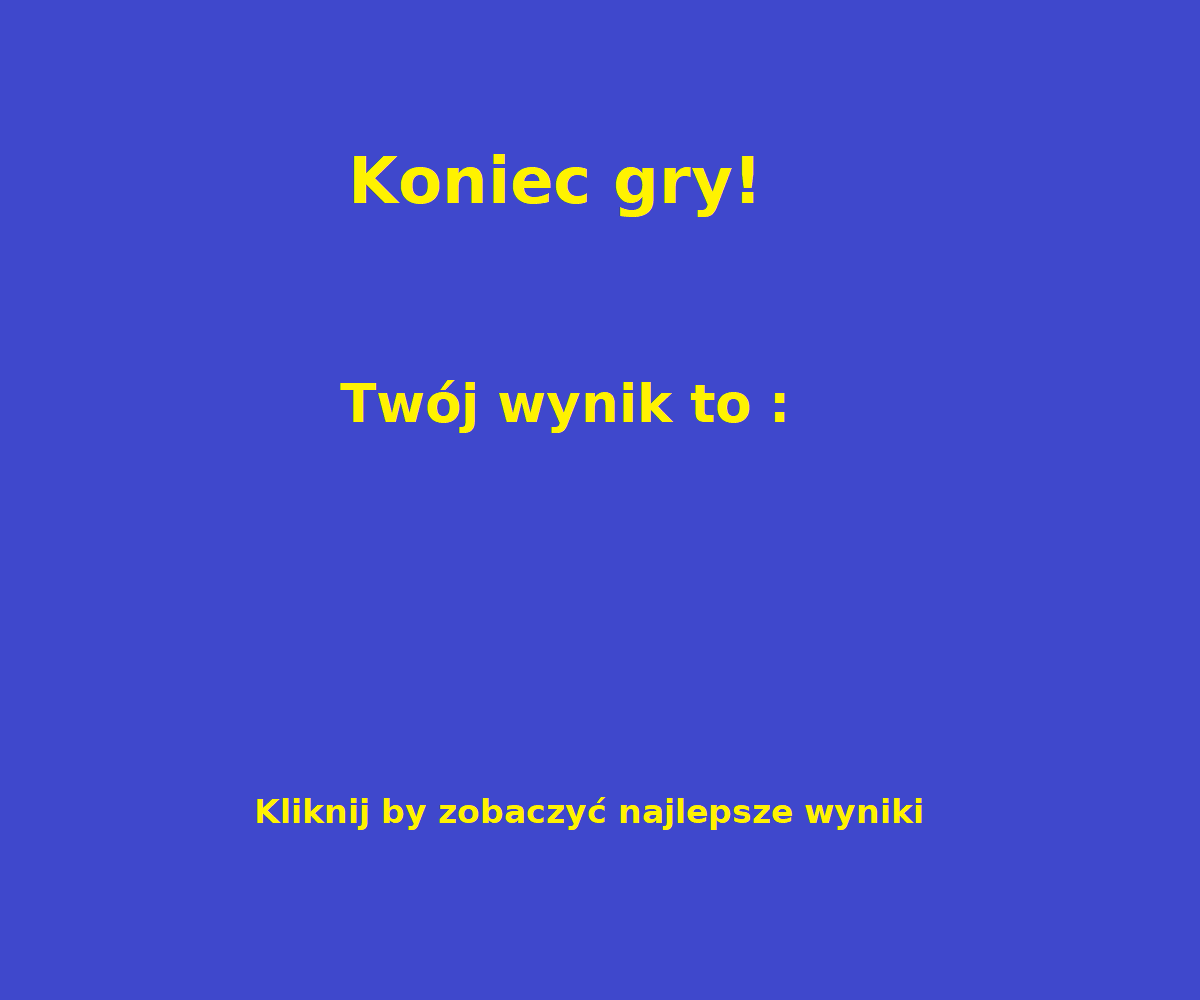
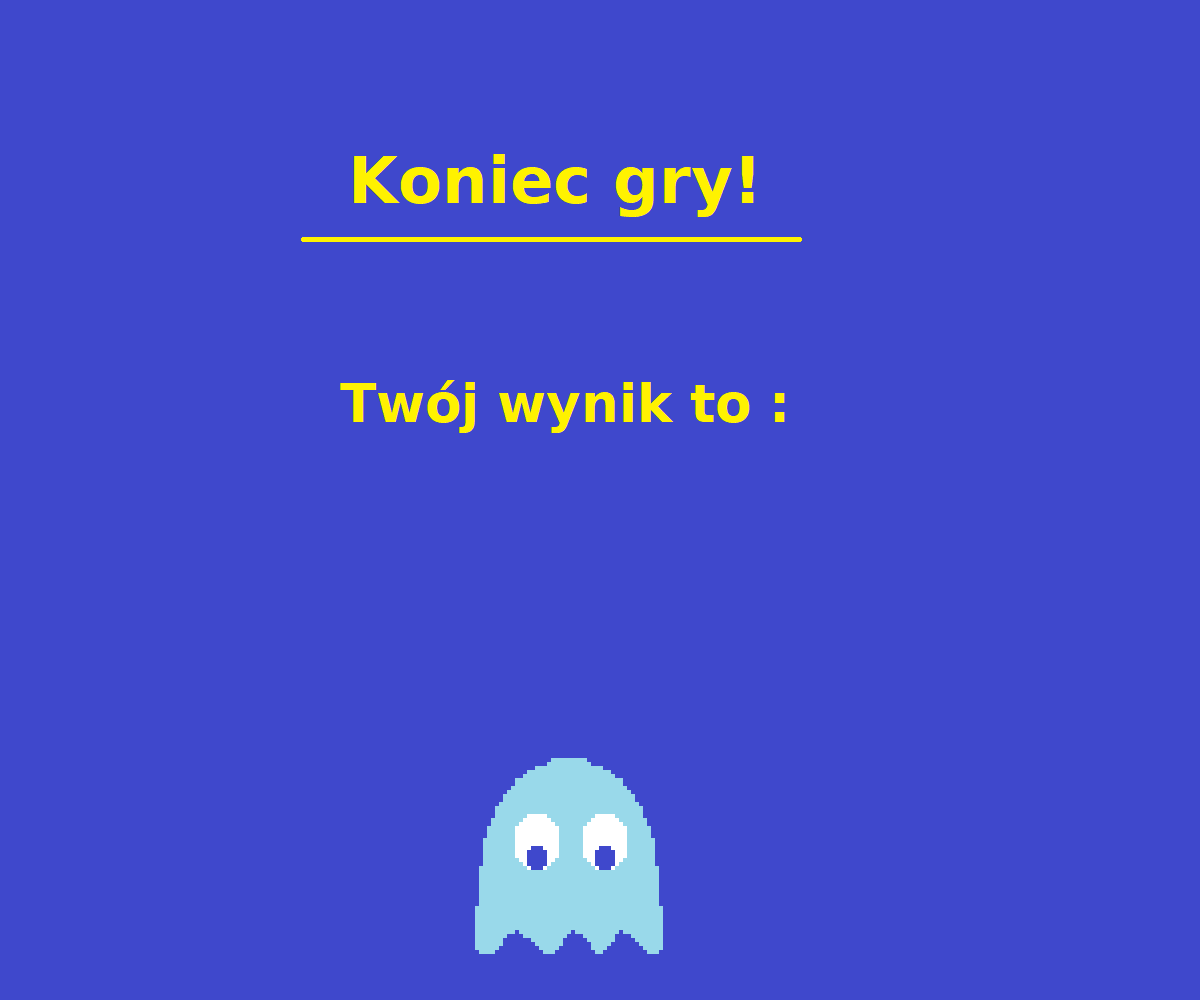
Version 0.81
- Fixed Inky gif having transparent eyes
- Show Highscores button from menu now fully functional
- Fixed highscores; now they correctly move other scores down the list
- Added indicator in form of transparent ghost images on the map if they are about to spawn/respawn
- Added transparent images to support feature mentioned above
- AI basic pathfinding now fully fixed (that took waaay to long)
- Modified win/lose screens to improve the looks

Changed region(s): [[0.2158, 0.744, 0.7708, 0.961], [0.2467, 0.217, 0.6783, 0.248]]

diff --git a/src/Board.java b/src/Board.java
@@ -11,6 +11,8 @@ public class Board extends JPanel implements ActionListener {
     public static final int MAPSHIFT = 50;
     public static final int DELAY = 10;                                         // Zmienna MAPSHIFT określa przesunięcie poszczególnych elementów tablicy 2d na piksele ( wielkosc siatki)
     public static final int GHOST_KILLED_POINTS = 100;
+    public final static int TRANSPARENT_TIMER = 1000;
+    public static final int SHOW_SCORES = -100 ;
 
     private Timer timer;
     private Pacman pacman;
@@ -26,21 +28,33 @@ public class Board extends JPanel implements ActionListener {
     private Image scoreScreen;
     private int pointTimer;
     private int endTimer;
-    private boolean end;
-    private boolean lost;
+    private boolean endFlag;
+    private boolean lostFlag;
     private boolean scoreFlag;
     private Score newScore;
-
+    private boolean onlyScoreFlag;
 
 
     public Board(int lvl) {
-        scoreFlag = false;
-        endTimer = 300;
-        lost = false;
-        end = false;
-        pacmanLifes = 3;
-        points = 0;
-        initBoard(lvl);
+        if(lvl != SHOW_SCORES) {
+            onlyScoreFlag = false;
+            scoreFlag = false;
+            endTimer = 300;
+            lostFlag = false;
+            endFlag = false;
+            pacmanLifes = 3;
+            points = 0;
+            initBoard(lvl);
+        }else{
+            addKeyListener(new TAdapter());
+            this.setFocusable(true);
+            onlyScoreFlag = true;
+            endFlag = true;
+            scoreFlag = true;
+            newScore = new Score();
+            repaint();
+        }
+
     }
 
     private void initBoard(int gameLevel) {
@@ -110,7 +124,7 @@ public class Board extends JPanel implements ActionListener {
         g2d.setPaint(Color.yellow);
         g2d.setFont(new Font ("Arial",Font.PLAIN ,20));
 
-        if(end == false) {
+        if(endFlag == false) {
             g2d.drawImage(pacman.getImage(), pacman.getXPosition(),
                     pacman.getYPosition(), this);
 
@@ -145,11 +159,16 @@ public class Board extends JPanel implements ActionListener {
                 }
             }
             for (Ghost ghost : ghostList) {
-                g2d.drawImage(ghost.getImage(), ghost.getXPosition(),
-                        ghost.getYPosition(), this);
+                if(ghost.getIsAlive()== true) {
+                    g2d.drawImage(ghost.getImage(), ghost.getXPosition(),
+                            ghost.getYPosition(), this);
+                }else if (ghost.getIsAlive() == false && ghost.getTimer() < TRANSPARENT_TIMER ){
+                    g2d.drawImage(ghost.getImage(), ghost.getStartingX(),
+                            ghost.getStartingY(), this);
+                }
             }
         }else if (scoreFlag == false){
-            if (isLost()== false) {
+            if (isLostFlag()== false) {
                 loadWinScreen();
                 g2d.drawImage(winScreen, 0, 0, this);
             }else{
@@ -191,14 +210,14 @@ public class Board extends JPanel implements ActionListener {
     }
 
     private boolean didWeLose() {
-        if(end == true) {
+        if(endFlag == true) {
             return true;
         }
 
         if((pacmanLifes < 0) ){
             addTimerPoints();
-            end = true;
-            setLost(true);
+            endFlag = true;
+            setLostFlag(true);
             repaint();
             return true;
         }
@@ -212,9 +231,11 @@ public class Board extends JPanel implements ActionListener {
             increaseLife();
             addTimerPoints();
             if(LevelMap.isNextLevelThere(level.getCurrentLevel()+1)) {
+                timer.stop();
                 initBoard(level.getCurrentLevel() + 1);
+                this.removeAll();
             }else{
-                end = true;
+                endFlag = true;
             }
             repaint();
             return true;
@@ -316,12 +337,12 @@ public class Board extends JPanel implements ActionListener {
             this.points += points;
         }
 
-    public void setLost(boolean lost) {
-        this.lost = lost;
+    public void setLostFlag(boolean lostFlag) {
+        this.lostFlag = lostFlag;
     }
 
-    public boolean isLost() {
-        return lost;
+    public boolean isLostFlag() {
+        return lostFlag;
     }
 
 

diff --git a/src/Score.java b/src/Score.java
@@ -14,6 +14,10 @@ import java.util.Scanner;
             int place = checkScore(score);
             if(place != -1 ){
                 setName();
+                for(int i = 8; i >= place; i--) {
+                        scores[i+1][0] = scores[i][0];
+                        scores[i+1][1] = scores[i][1];
+                }
                 scores[place][0] = name;
                 scores[place][1] = Integer.toString(score);
                 copyScoresToFile();
@@ -94,7 +98,9 @@ import java.util.Scanner;
 
         public  void setName(){
             name = JOptionPane.showInputDialog(null, "Gratulacje, znalazłeś się w pierwszej dziesiątce! Wpisz swoje imie ", "Nowy rekord", JOptionPane.QUESTION_MESSAGE);
-
+            while(name.length() > 20 || name.contains(" ") ){
+                name = JOptionPane.showInputDialog(null, "Imie nie może zawierać spacji ani mieć więcej niż 20 znaków!", "Nowy rekord", JOptionPane.QUESTION_MESSAGE);
+            }
         }
     }
 

diff --git a/src/Ghost.java b/src/Ghost.java
@@ -63,6 +63,26 @@ public class Ghost extends Pacman{
         ImageIcon oo = new ImageIcon("Blinkey\\BlinkeyLeftGif.gif");
         if(isFrigtened()) {
             oo = new ImageIcon("ScaredGif.gif");
+        }else if(getTimer() < Board.TRANSPARENT_TIMER){
+            switch (ghostType) {
+                case RED: {
+                    oo = new ImageIcon("Blinkey\\BlinkeyLeftTransparent.png");
+                    break;
+                }
+                case BLUE: {
+                    oo = new ImageIcon("Inky\\InkyLeftTransparent.png");
+                    break;
+                }
+                case ORANG: {
+                    oo = new ImageIcon("Clyde\\ClydeLeftTransparent.png");
+                    break;
+                }
+                case PINK: {
+                    oo = new ImageIcon("Pinky\\PinkyLeftTransparent.png");
+                    break;
+                }
+            }
+
         }
         else{
             switch (ghostType) {

diff --git a/src/Game.java b/src/Game.java
@@ -61,9 +61,9 @@ public class Game extends JFrame {
             eMenuItem3.addActionListener((event) -> chooseLevel());
 
             var eMenuItem4 = new JMenuItem("Najlepsze wyniki", exitIcon);
-            eMenuItem3.setMnemonic(KeyEvent.VK_E);
-            eMenuItem3.setToolTipText("Wyświetl najlepsze wyniki");
-            eMenuItem3.addActionListener((event) -> showBestScores());
+            eMenuItem4.setMnemonic(KeyEvent.VK_E);
+            eMenuItem4.setToolTipText("Wyświetl najlepsze wyniki");
+            eMenuItem4.addActionListener((event) ->startGame(Board.SHOW_SCORES));
 
             fileMenu.add(eMenuItem);
             fileMenu.add(eMenuItem2);
@@ -78,9 +78,6 @@ public class Game extends JFrame {
             l.setIcon(i);
             add(l);
         }
-
-    private void showBestScores() {
-    }
 
 
     public void startGame() {

diff --git a/src/GhostsAI.java b/src/GhostsAI.java
@@ -39,6 +39,7 @@ public class GhostsAI {
                 continue;
             }
             if (ghost.getIsAlive() == false){
+                ghost.changeImage(0);
                 ghost.setScaredOnce(true);
                 ghost.setFrightened(false);
                 if(ghost.getXPosition() != GHOST_GRAVEYARD_X  && ghost.getYPosition() != GHOST_GRAVEYARD_Y ) {              // sprawdzamy czy już nie znajduje się na cmentarzu (poza mapą)// jeśli nie znaczy że jest tu pierwszy raz i nakładamy na niego nieśmiertelność
@@ -99,8 +100,6 @@ public class GhostsAI {
     }
 
     private void whereToGhost(Ghost ghost, int ghostType) {
-
-        checkWhereAndIfShouldTurn(ghost);
         if (checkWhereAndIfShouldTurn(ghost) == -1) {
             ghost.returnLastMove();
         }
